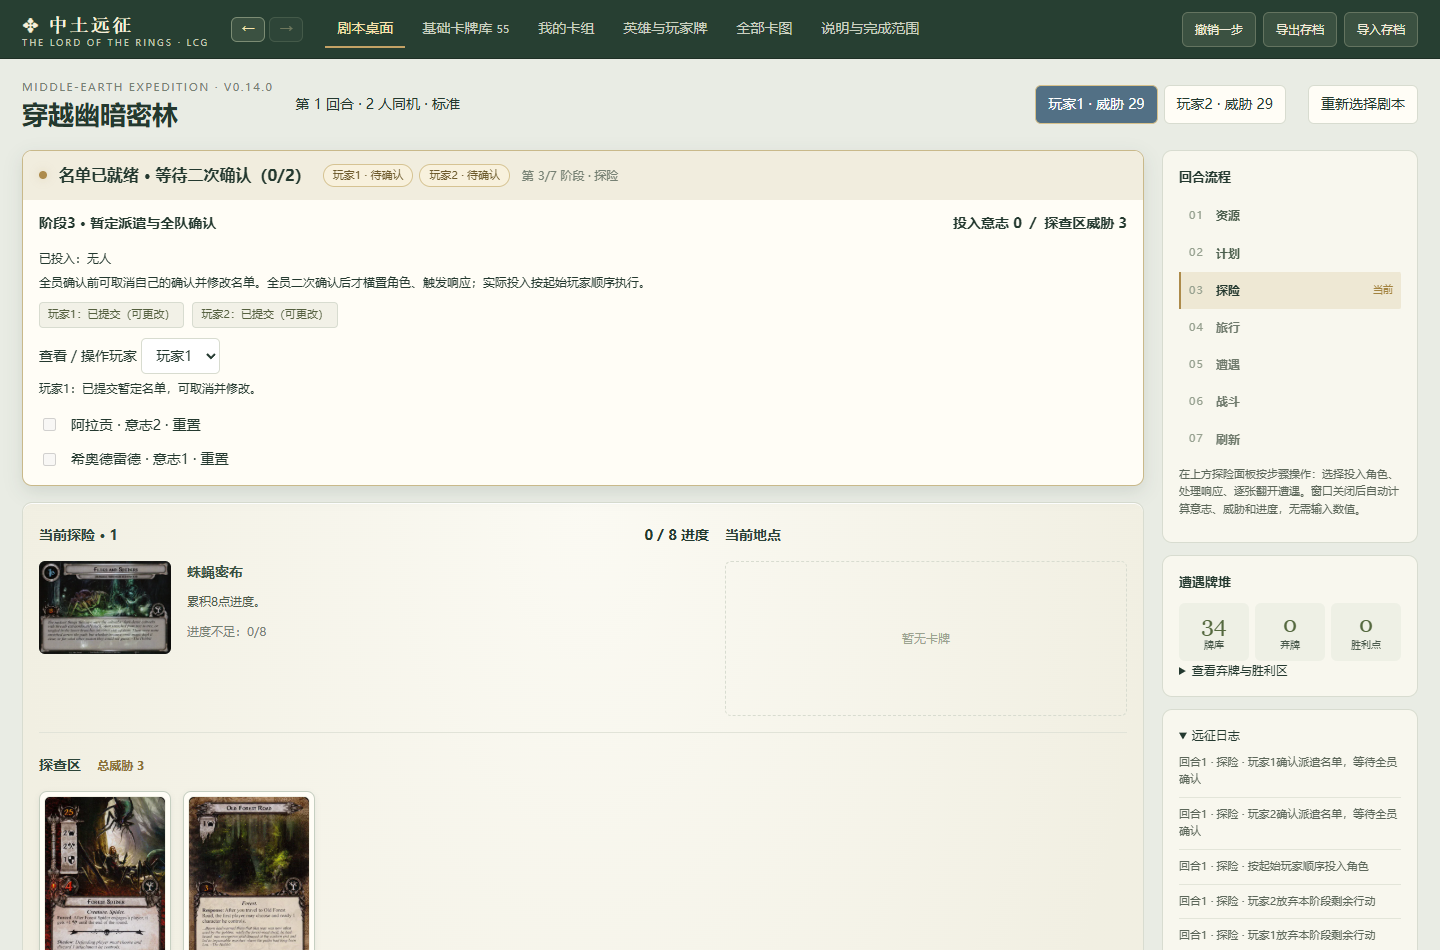
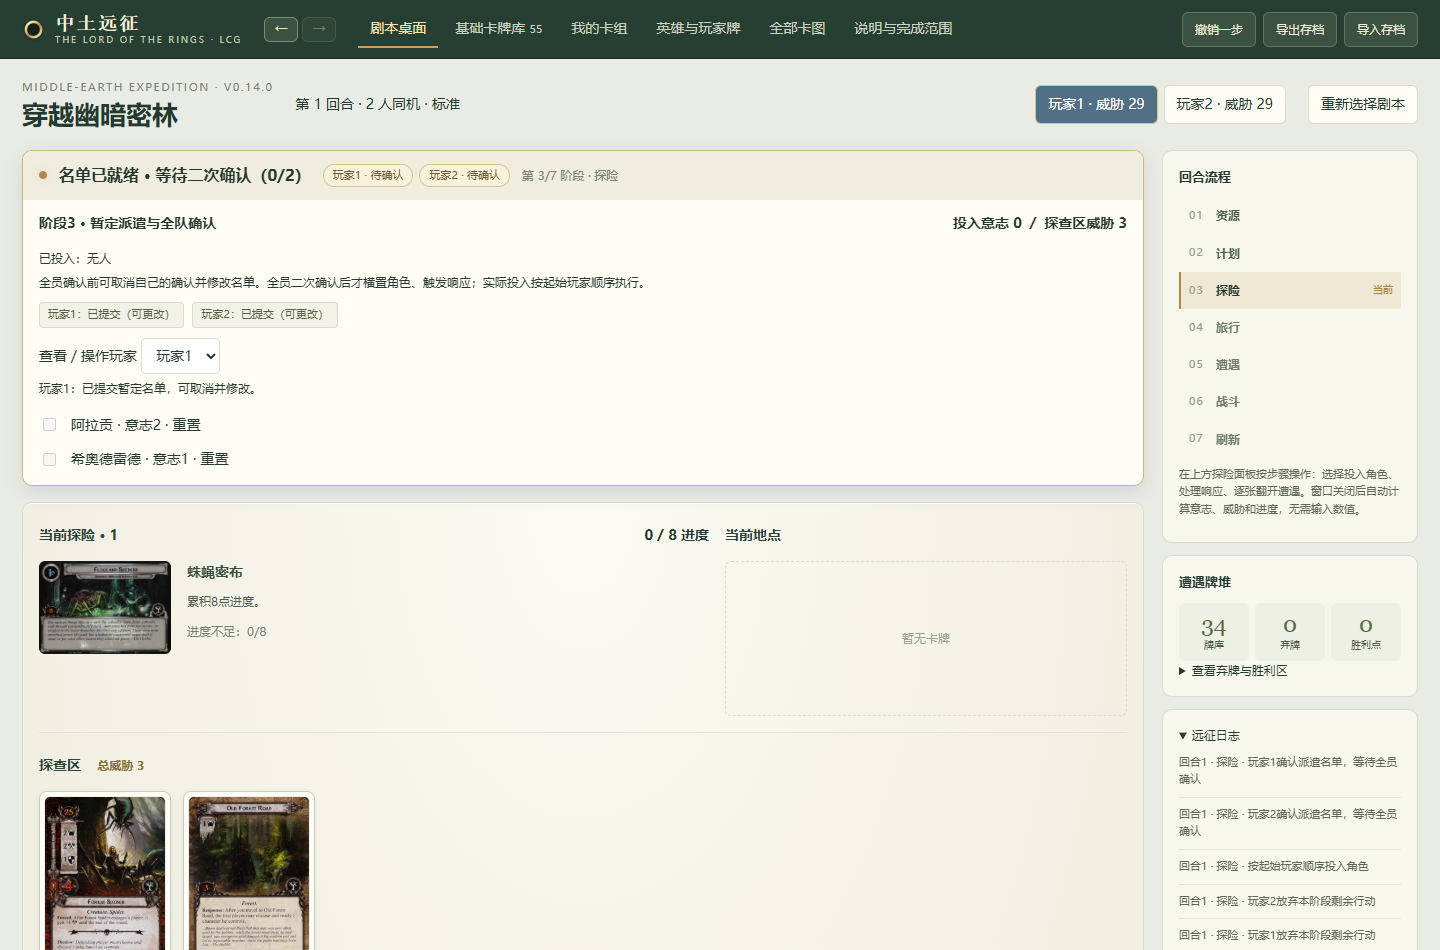
v0.15.14 顶栏品牌图标换成至尊戒
- 用内联 SVG 替换 ✥ 字符
- 小尺寸优化：环加粗、去掉刻纹、内圈半透明
- CSS inline-flex 对齐，桌面视图自动缩小

Changed region(s): [[0.2188, 0.0, 0.6562, 0.0611], [0.0, 0.0, 0.1562, 0.0611]]

diff --git a/shell.html b/shell.html
@@ -1,6 +1,6 @@
 <!doctype html>
 <html lang="zh-CN"><head><meta charset="utf-8"><meta name="viewport" content="width=device-width,initial-scale=1"><meta name="color-scheme" content="only light"><meta name="theme-color" content="#273f32"><title>中土远征 · 基础版剧本桌面</title><link rel="icon" type="image/svg+xml" href="assets/favicon.svg"><link rel="icon" type="image/png" sizes="32x32" href="assets/favicon-32.png"><link rel="icon" type="image/png" sizes="16x16" href="assets/favicon-16.png"><link rel="alternate icon" href="assets/favicon.ico"><link rel="apple-touch-icon" sizes="180x180" href="assets/favicon-180.png"><link rel="stylesheet" href="style.css"></head><body>
-<header><a class="brand" href="#" id="brandHome" title="回到首页">✥ 中土远征 <small>THE LORD OF THE RINGS · LCG</small></a><div class="history-nav"><button id="navBack" type="button" title="后退" aria-label="后退">←</button><button id="navFwd" type="button" title="前进" aria-label="前进">→</button></div><nav><button id="tableTab" class="active">剧本桌面</button><button id="catalogTab">基础卡牌库 <span>55</span></button><button id="decksTab">我的卡组</button><button id="playersTab">英雄与玩家牌</button><button id="imagesTab">全部卡图</button><button id="helpTab">说明与完成范围</button></nav><div class="header-actions"><button id="undo">撤销一步</button><button id="export">导出存档</button><label class="button" for="import">导入存档</label><input id="import" type="file" accept="application/json" hidden></div></header>
+<header><a class="brand" href="#" id="brandHome" title="回到首页"><svg class="brand-mark" viewBox="0 0 64 64" aria-hidden="true" focusable="false"><defs><linearGradient id="brandGold" x1="10" y1="8" x2="54" y2="57" gradientUnits="userSpaceOnUse"><stop offset="0" stop-color="#fdf4cd"/><stop offset=".32" stop-color="#e3c47a"/><stop offset=".55" stop-color="#a9853f"/><stop offset=".78" stop-color="#e8cb86"/><stop offset="1" stop-color="#fffae0"/></linearGradient><radialGradient id="brandField" cx=".5" cy=".42" r=".58"><stop offset="0" stop-color="#8a4a16"/><stop offset=".46" stop-color="#4a2a10"/><stop offset="1" stop-color="#150e07"/></radialGradient></defs><circle cx="32" cy="32" r="21" fill="#0d1710" fill-opacity=".62"/><circle cx="32" cy="32" r="21" fill="none" stroke="url(#brandGold)" stroke-width="7"/><path d="M14.6 19.2A21 21 0 0 1 32.6 10.9" fill="none" stroke="#fffbe8" stroke-width="2.4" stroke-linecap="round" opacity=".55"/></svg><span>中土远征 <small>THE LORD OF THE RINGS · LCG</small></span></a><div class="history-nav"><button id="navBack" type="button" title="后退" aria-label="后退">←</button><button id="navFwd" type="button" title="前进" aria-label="前进">→</button></div><nav><button id="tableTab" class="active">剧本桌面</button><button id="catalogTab">基础卡牌库 <span>55</span></button><button id="decksTab">我的卡组</button><button id="playersTab">英雄与玩家牌</button><button id="imagesTab">全部卡图</button><button id="helpTab">说明与完成范围</button></nav><div class="header-actions"><button id="undo">撤销一步</button><button id="export">导出存档</button><label class="button" for="import">导入存档</label><input id="import" type="file" accept="application/json" hidden></div></header>
 <main id="app"></main><div id="toast" role="status" aria-live="polite"></div>
 <script src="data.js"></script><script src="starter-decks.js"></script><script src="player-cards.js"></script><script src="ringsdb-snapshot.js"></script><script src="planning-engine.js"></script><script src="quest-engine.js"></script><script src="travel-engine.js"></script><script src="encounter-engine.js"></script><script src="combat-engine.js"></script><script src="refresh-engine.js"></script><script src="window-engine.js"></script><script src="engine.js"></script><script src="player-ui.js"></script><script src="image-index.js"></script><script src="encounter-image-index.js"></script><script src="chinese-core-images.js"></script><script src="local-image-map.js"></script>
 <script src="image-ui.js"></script><script src="planning-ui.js"></script><script src="quest-ui.js"></script><script src="travel-ui.js"></script><script src="encounter-ui.js"></script><script src="combat-ui.js"></script><script src="refresh-ui.js"></script><script src="window-ui.js"></script><script src="desktop-ui.js"></script><script src="product-catalog.js"></script><script src="app.js"></script></body></html>

diff --git a/index.html b/index.html
@@ -245,8 +245,15 @@ nav button.active:hover{background:transparent;color:#f6e3ad}
 body:has(.desktop-table) .history-nav button{padding:4px 9px;font-size:13px}
 @media(max-width:900px){.history-nav{order:3}}
 
+/* v0.15.14 brand uses the ring mark instead of the ✥ glyph. */
+.brand{display:inline-flex;align-items:center;gap:10px}
+.brand-mark{width:28px;height:28px;flex:none;display:block;filter:drop-shadow(0 1px 2px #00000055)}
+.brand span{display:block;line-height:1.05}
+body:has(.desktop-table) .brand-mark{width:23px;height:23px}
+@media(max-width:900px){.brand-mark{width:24px;height:24px}}
+
 </style></head><body>
-<header><a class="brand" href="#" id="brandHome" title="回到首页">✥ 中土远征 <small>THE LORD OF THE RINGS · LCG</small></a><div class="history-nav"><button id="navBack" type="button" title="后退" aria-label="后退">←</button><button id="navFwd" type="button" title="前进" aria-label="前进">→</button></div><nav><button id="tableTab" class="active">剧本桌面</button><button id="catalogTab">基础卡牌库 <span>55</span></button><button id="decksTab">我的卡组</button><button id="playersTab">英雄与玩家牌</button><button id="imagesTab">全部卡图</button><button id="helpTab">说明与完成范围</button></nav><div class="header-actions"><button id="undo">撤销一步</button><button id="export">导出存档</button><label class="button" for="import">导入存档</label><input id="import" type="file" accept="application/json" hidden></div></header>
+<header><a class="brand" href="#" id="brandHome" title="回到首页"><svg class="brand-mark" viewBox="0 0 64 64" aria-hidden="true" focusable="false"><defs><linearGradient id="brandGold" x1="10" y1="8" x2="54" y2="57" gradientUnits="userSpaceOnUse"><stop offset="0" stop-color="#fdf4cd"/><stop offset=".32" stop-color="#e3c47a"/><stop offset=".55" stop-color="#a9853f"/><stop offset=".78" stop-color="#e8cb86"/><stop offset="1" stop-color="#fffae0"/></linearGradient><radialGradient id="brandField" cx=".5" cy=".42" r=".58"><stop offset="0" stop-color="#8a4a16"/><stop offset=".46" stop-color="#4a2a10"/><stop offset="1" stop-color="#150e07"/></radialGradient></defs><circle cx="32" cy="32" r="21" fill="#0d1710" fill-opacity=".62"/><circle cx="32" cy="32" r="21" fill="none" stroke="url(#brandGold)" stroke-width="7"/><path d="M14.6 19.2A21 21 0 0 1 32.6 10.9" fill="none" stroke="#fffbe8" stroke-width="2.4" stroke-linecap="round" opacity=".55"/></svg><span>中土远征 <small>THE LORD OF THE RINGS · LCG</small></span></a><div class="history-nav"><button id="navBack" type="button" title="后退" aria-label="后退">←</button><button id="navFwd" type="button" title="前进" aria-label="前进">→</button></div><nav><button id="tableTab" class="active">剧本桌面</button><button id="catalogTab">基础卡牌库 <span>55</span></button><button id="decksTab">我的卡组</button><button id="playersTab">英雄与玩家牌</button><button id="imagesTab">全部卡图</button><button id="helpTab">说明与完成范围</button></nav><div class="header-actions"><button id="undo">撤销一步</button><button id="export">导出存档</button><label class="button" for="import">导入存档</label><input id="import" type="file" accept="application/json" hidden></div></header>
 <main id="app"></main><div id="toast" role="status" aria-live="polite"></div>
 <script>
 /* 中文名称及规则为本项目工作译名/机制摘要；非官方译文。 */

diff --git a/style.css b/style.css
@@ -242,3 +242,10 @@ nav button.active:hover{background:transparent;color:#f6e3ad}
 .brand:hover{color:#f6e3ad}
 body:has(.desktop-table) .history-nav button{padding:4px 9px;font-size:13px}
 @media(max-width:900px){.history-nav{order:3}}
+
+/* v0.15.14 brand uses the ring mark instead of the ✥ glyph. */
+.brand{display:inline-flex;align-items:center;gap:10px}
+.brand-mark{width:28px;height:28px;flex:none;display:block;filter:drop-shadow(0 1px 2px #00000055)}
+.brand span{display:block;line-height:1.05}
+body:has(.desktop-table) .brand-mark{width:23px;height:23px}
+@media(max-width:900px){.brand-mark{width:24px;height:24px}}

diff --git a/CHANGELOG.md b/CHANGELOG.md
@@ -1,3 +1,10 @@
+# v0.15.14 · 顶栏品牌图标换成同一枚戒指（2026-10-21）
+
+- 左上角原来是装饰字符 `✥`，换成内联 SVG 至尊戒，与浏览器标签图标同一套视觉。顶栏版做了小尺寸优化：环更粗（stroke 7、r 21）、去掉在 28px 下糊成一团的滕格瓦刻纹、内圈用 `#0d1710` 62% 透明度叠在深绿底上，保留左上高光。
+- `shell.html` 的品牌改成 `<svg>+<span>` 结构，CSS 用 inline-flex 对齐，桌面视图（`body:has(.desktop-table)`）自动缩到 23px，900px 以下 24px。
+- 渐变 id 用 `brandGold`／`brandField`，避免与页面其它 SVG 的 `gold`／`field` 冲突。
+- 验证：`#brandHome` 点击回首页仍正常；布局 14/14、任务栏 22/22、对比度 6 阶段 0 问题；402 项测试通过。
+
 # v0.15.13 · 新增浏览器标签图标（至尊戒）（2026-10-21）
 
 - 原本没有 favicon，浏览器标签页只显示默认空白图标。新增 `assets/favicon.svg`：深墨绿圆角底 + 金色至尊戒，环上以 `stroke-dasharray` 画出一圈滕格瓦式刻纹，环内是末日火山的暗橙余温，左上有一道高光。
